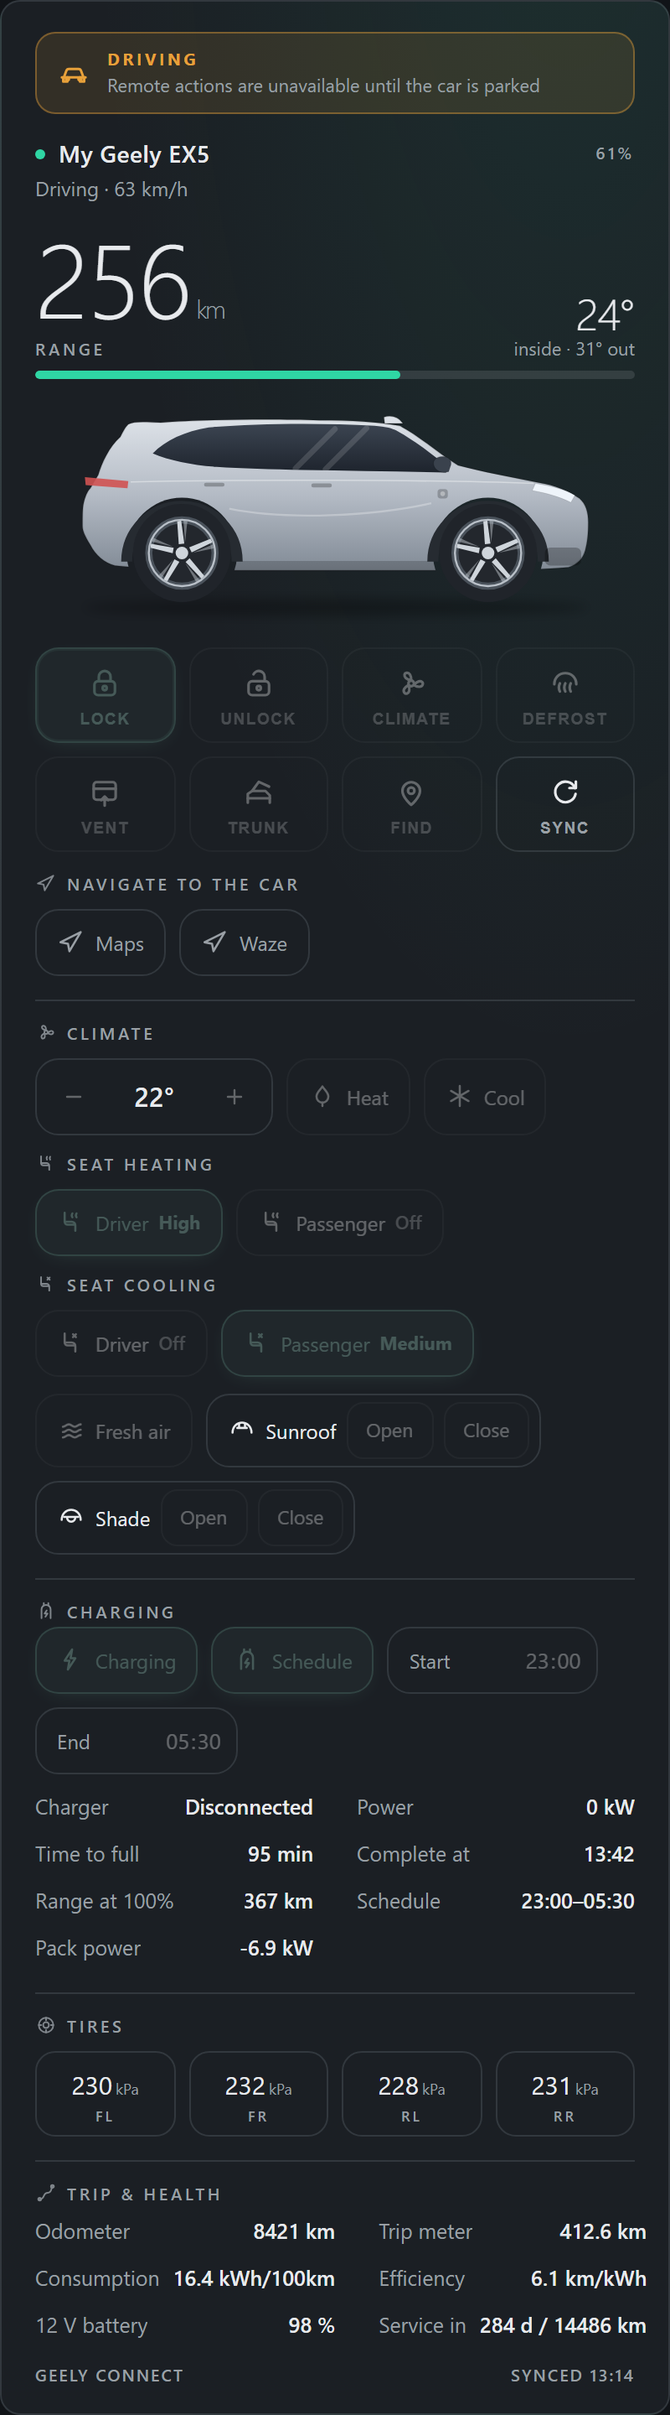
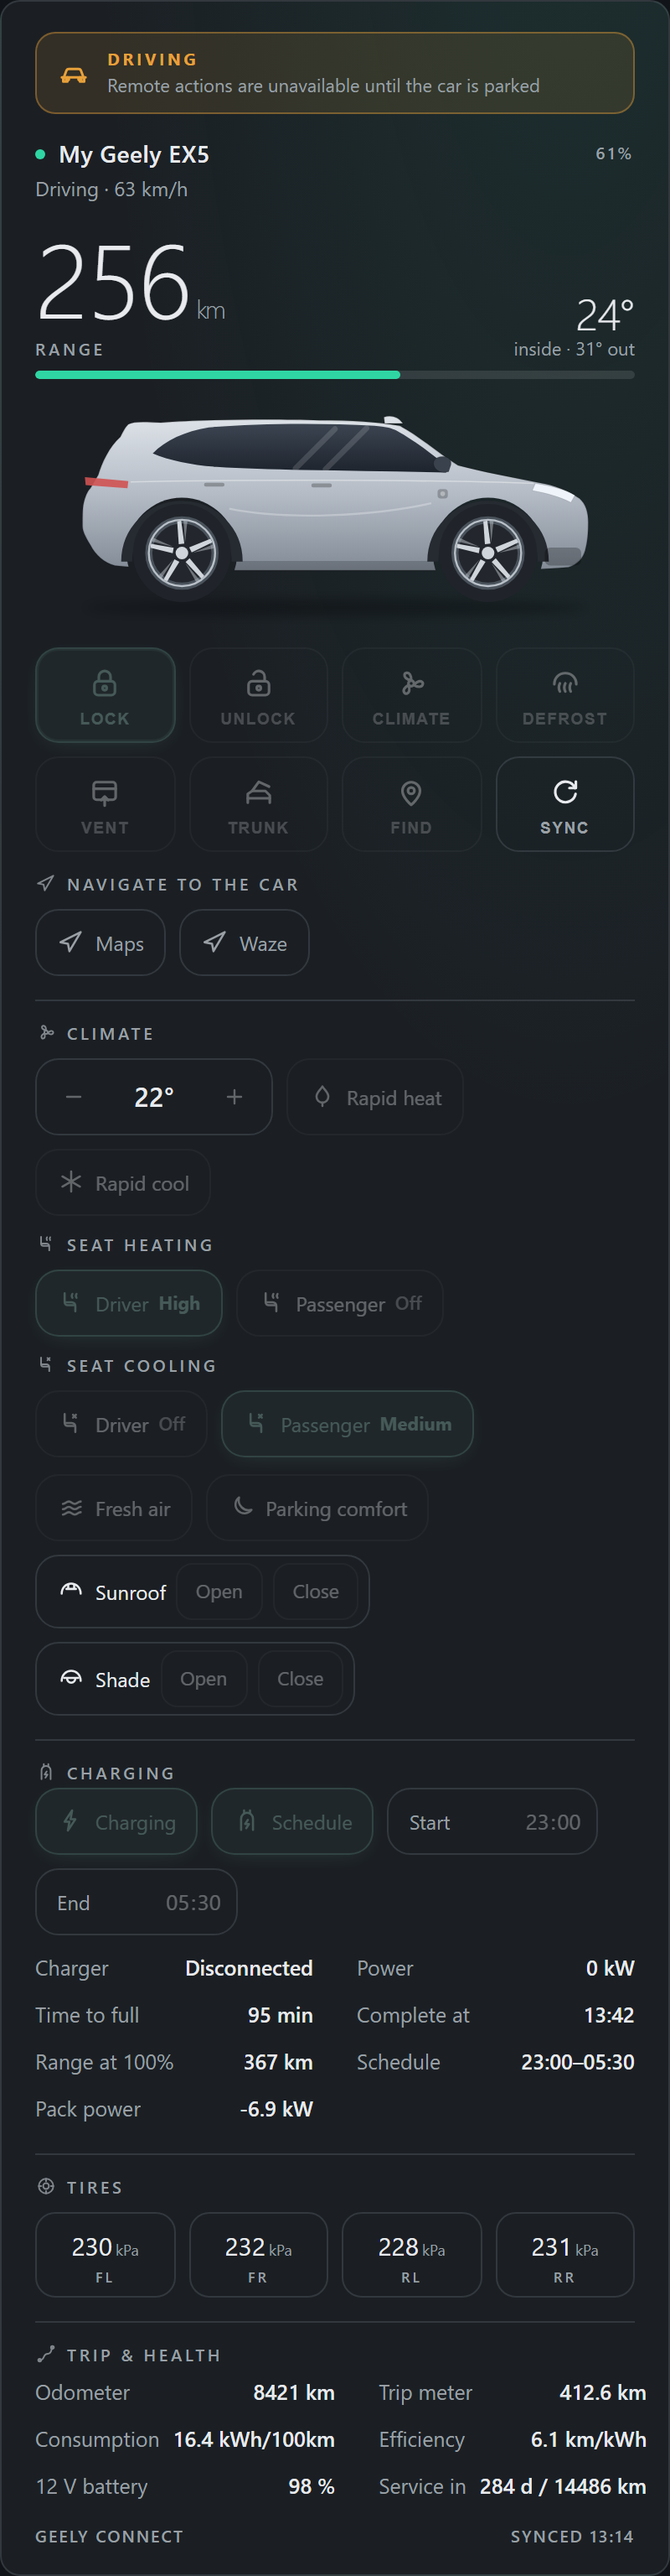
Say "rapid" on the preset buttons, put Parking Comfort on the card
#29: the Heat and Cool buttons fire the car's own Rapid Warming and Rapid
Cooling presets, which drive the setpoint to its limit and run both front
seats. Labelled Heat and Cool they read as a plain "start heating", and a
reporter said exactly that. They now say Rapid heat / Rapid cool, and the
tooltip describes what the preset does to the car.

#30: Parking Comfort was reachable only as a switch entity. It is now a
button in the climate panel's air row, beside Fresh air, since it is a
cabin-air feature rather than a one-shot action. It carries no "on" state
on purpose - the car does not report the feature's state (#13), so the
switch reads unknown and a lit button would be inventing one. The tooltip
says so.

Also fixes a flake that predates this work: seven tests called
_adaptive_interval on a parked car without pinning the module clock, and a
parked car backs off to the cap between 00:00 and 05:59 local. Those tests
failed for six hours every day, on CI included. They now use the _at_hour
helper the file already had, and a new test walks all twenty-four hours to
pin what must hold in each one - so the next such test fails immediately
rather than at dawn.

710 tests, 100% coverage, hassfest clean, HACS checks pass.

diff --git a/custom_components/geely_connect/geely-card.js b/custom_components/geely_connect/geely-card.js
@@ -34,7 +34,7 @@
     "scheduled_charging", "charger_connection", "tire_front_right",
     "tire_front_left", "tire_rear_right", "door_rear_right", "charging_power",
     "seat_heat_passenger", "seat_vent_passenger", "seat_heat_driver",
-    "seat_vent_driver", "sunshade", "g_clean",
+    "seat_vent_driver", "sunshade", "g_clean", "parking_comfort",
     "tire_rear_left", "door_rear_left", "combined_range", "charge_complete",
     "charge_voltage", "electric_range", "charge_current", "door_passenger",
     "charger_plug", "total_mileage", "refresh_data", "unlock_trunk",
@@ -125,6 +125,23 @@
   /* Unchanged for anyone who has not asked: two links, not four. */
   const DEFAULT_NAV = ["maps", "waze"];
 
+  /* The car does not report this feature's state - the field that looks like its
+   * flag reads 1 with the feature off (#13) - so the switch reads unknown and the
+   * button cannot honestly light up. Say that on the control. */
+  const PCOMFORT_HINT = "Parking Comfort: keeps the cabin comfortable while the "
+    + "car is parked. Your car does not report whether it is on, so this button "
+    + "toggles it without showing a state.";
+
+  /* These two buttons fire the car's own Rapid Warming / Rapid Cooling presets,
+   * not a plain "start heating". Labelled Heat and Cool they read as the latter -
+   * an owner said so: "I initially thought heat just turned on heating, not rapid
+   * heating" (#29). So the label says rapid and the tooltip says what that
+   * actually does to the car. */
+  const RAPID_HEAT_HINT = "Rapid warming: the car's own preset - drives the "
+    + "setpoint to its maximum and heats both front seats";
+  const RAPID_COOL_HINT = "Rapid cooling: the car's own preset - drives the "
+    + "setpoint to its minimum, ventilates both front seats and cracks the windows";
+
   const DEFAULT_COOLDOWN_S = 3;
   /* How long the temperature stepper waits for the tapping to stop. */
   const TEMP_SETTLE_MS = 1100;
@@ -134,6 +151,7 @@
     // The propulsion split: _carState() reads these for every card, so a
     // card that did not watch them would freeze a hybrid's fuel bar and
     // headline exactly the way the door count froze once.
+    "switch.parking_comfort",
     "sensor.fuel_level", "sensor.fuel_level_pct", "sensor.fuel_range",
     "sensor.combined_range",
   ];
@@ -378,6 +396,10 @@
 
   const ICONS = {
     nav: `<path d="M20 4 10.5 20l-1.2-6.3L3 12.5z"/>`,
+    // Parking Comfort keeps the cabin liveable while the car sits, which is
+    // what mdi:sleep says on the switch itself - so a crescent, not the
+    // climate fan it was borrowing.
+    sleep: `<path d="M20 14.5A8.5 8.5 0 0 1 9.5 4a7.5 7.5 0 1 0 10.5 10.5z"/>`,
     driving: `<path d="M3.5 14.5h17M5 14.5l1.7-4.6A2 2 0 0 1 8.6 8.5h6.8a2 2 0 0 1 1.9 1.4l1.7 4.6"/>
               <path d="M4.5 14.5v3h3v-3M16.5 14.5v3h3v-3"/>
               <circle cx="7.5" cy="15.6" r="1.1"/><circle cx="16.5" cy="15.6" r="1.1"/>`,
@@ -1076,6 +1098,7 @@
         case "shade_open": this._call("cover", "open_cover", "sunshade"); break;
         case "shade_close": this._call("cover", "close_cover", "sunshade"); break;
         case "gclean": this._call("switch", "toggle", "g_clean"); break;
+        case "pcomfort": this._call("switch", "toggle", "parking_comfort"); break;
         case "charging_sw": this._call("switch", "toggle", "charging"); break;
         case "sched_sw": this._call("switch", "toggle", "scheduled_charging"); break;
         case "defrost": this._call("switch", "toggle", "defrost"); break;
@@ -1231,12 +1254,22 @@
           </div>`;
       };
       const gclean = this._st("switch.g_clean");
+      const pcomfort = this._st("switch.parking_comfort");
       const heatRow = seat("seat_heat_driver", "Driver", "seatheat", "Seat heat") +
         seat("seat_heat_passenger", "Passenger", "seatheat", "Seat heat");
       const ventRow = seat("seat_vent_driver", "Driver", "seatvent", "Seat cooling") +
         seat("seat_vent_passenger", "Passenger", "seatvent", "Seat cooling");
+      /* Parking Comfort keeps the cabin liveable while the car sits, so it belongs
+       * beside the cabin-air controls rather than among the one-shot actions.
+       *
+       * It carries no "on" class on purpose. This car does not report the
+       * feature's state: the field that looks like its flag reads 1 on a car with
+       * it switched off (#13), so the switch itself reports unknown. A control
+       * that lights up would be inventing a state - the tooltip says so instead. */
       const airRow = (gclean ? `<button class="cbtn ${gclean.state === "on" ? "on" : ""}"
             data-act="gclean" title="Fresh air (G-Clean)">${icon("fresh")}<span>Fresh air</span></button>` : "") +
+        (pcomfort ? `<button class="cbtn ${pcomfort.state === "on" ? "on" : ""}"
+            data-act="pcomfort" title="${esc(PCOMFORT_HINT)}">${icon("sleep")}<span>Parking comfort</span></button>` : "") +
         cover("sunroof", "sunroof_open", "sunroof_close", "Sunroof", "roof") +
         cover("sunshade", "shade_open", "shade_close", "Shade", "shade");
       return `
@@ -1249,9 +1282,9 @@
             <button class="cstep" data-act="tempup" title="Warmer">${icon("plus")}</button>
           </div>
           <button class="cbtn ${preset === "Rapid Warming" ? "on" : ""}" data-act="rapidheat"
-            title="Rapid warming">${icon("heat")}<span>Heat</span></button>
+            title="${esc(RAPID_HEAT_HINT)}">${icon("heat")}<span>Rapid heat</span></button>
           <button class="cbtn ${preset === "Rapid Cooling" ? "on" : ""}" data-act="rapidcool"
-            title="Rapid cooling">${icon("cool")}<span>Cool</span></button>
+            title="${esc(RAPID_COOL_HINT)}">${icon("cool")}<span>Rapid cool</span></button>
         </div>
         ${heatRow ? `<p class="micro csub">${icon("seatheat")} Seat heating</p>
         <div class="crow wrap">${heatRow}</div>` : ""}
@@ -1494,8 +1527,8 @@
           <div class="actions">
             ${this._actBtn("lock", "Lock", "lock", { on: s.locked && s.locked.state === "locked" })}
             ${this._actBtn("unlock", "Unlock", "unlock")}
-            ${this._actBtn("rapidheat", "Heat", "heat", { on: this._preset() === "Rapid Warming" })}
-            ${this._actBtn("rapidcool", "Cool", "cool", { on: this._preset() === "Rapid Cooling" })}
+            ${this._actBtn("rapidheat", "Rapid heat", "heat", { title: RAPID_HEAT_HINT, on: this._preset() === "Rapid Warming" })}
+            ${this._actBtn("rapidcool", "Rapid cool", "cool", { title: RAPID_COOL_HINT, on: this._preset() === "Rapid Cooling" })}
             ${this._actBtn("defrost", "Defrost", "defrost", { on: defrost && defrost.state === "on" })}
             ${this._actBtn("trunk", this._bootWord(), "trunk", { title: this._bootTitle() })}
           </div>
@@ -1842,8 +1875,8 @@
               ${locked
                 ? this._actBtn("unlock", "Unlock", "unlock")
                 : this._actBtn("lock", "Lock", "lock")}
-              ${this._actBtn("rapidheat", "Heat", "heat", { on: this._preset() === "Rapid Warming" })}
-              ${this._actBtn("rapidcool", "Cool", "cool", { on: this._preset() === "Rapid Cooling" })}
+              ${this._actBtn("rapidheat", "Rapid heat", "heat", { title: RAPID_HEAT_HINT, on: this._preset() === "Rapid Warming" })}
+              ${this._actBtn("rapidcool", "Rapid cool", "cool", { title: RAPID_COOL_HINT, on: this._preset() === "Rapid Cooling" })}
               ${this._actBtn("trunk", this._bootWord(), "trunk", { title: this._bootTitle() })}
               ${this._actBtn("find", "Find", "find")}
             </div>
@@ -1935,8 +1968,8 @@
             ${locked
               ? this._actBtn("unlock", "Unlock", "unlock")
               : this._actBtn("lock", "Lock", "lock")}
-            ${this._actBtn("rapidheat", "Heat", "heat", { on: preset === "Rapid Warming" })}
-            ${this._actBtn("rapidcool", "Cool", "cool", { on: preset === "Rapid Cooling" })}
+            ${this._actBtn("rapidheat", "Rapid heat", "heat", { title: RAPID_HEAT_HINT, on: preset === "Rapid Warming" })}
+            ${this._actBtn("rapidcool", "Rapid cool", "cool", { title: RAPID_COOL_HINT, on: preset === "Rapid Cooling" })}
           </div>
         </div>`;
       this._wire();

diff --git a/tests/test_polling_logic.py b/tests/test_polling_logic.py
@@ -88,10 +88,12 @@ def test_the_fast_interval_holds_through_a_red_light():
     interval must still be the profile's fast value rather than base."""
     m = _coordinator_module()
     const = load("const")
-    prof = const.POLL_PROFILES["normal"]
-    stopped = _status(speed="0", engine="engine_running")
-    assert m._adaptive_interval(stopped, 0, prof).total_seconds() == prof["fast"]
-    assert m._adaptive_interval(stopped, 3, prof).total_seconds() == prof["fast"]
+    # Pinned: quiet hours are wall-clock, so this would fail 00:00-05:59.
+    with _at_hour(m, 12):
+        prof = const.POLL_PROFILES["normal"]
+        stopped = _status(speed="0", engine="engine_running")
+        assert m._adaptive_interval(stopped, 0, prof).total_seconds() == prof["fast"]
+        assert m._adaptive_interval(stopped, 3, prof).total_seconds() == prof["fast"]
 
 
 def test_a_stuck_running_flag_eventually_backs_off_anyway():
@@ -100,12 +102,14 @@ def test_a_stuck_running_flag_eventually_backs_off_anyway():
     for ever either."""
     m = _coordinator_module()
     const = load("const")
-    prof = const.POLL_PROFILES["normal"]
-    stuck = _status(speed="0", engine="running")
-    fast = m._adaptive_interval(stuck, m._STUCK_POLLS - 1, prof).total_seconds()
-    slow = m._adaptive_interval(stuck, m._STUCK_POLLS, prof).total_seconds()
-    assert fast == prof["fast"]
-    assert slow > prof["fast"]
+    # Pinned: quiet hours are wall-clock, so this would fail 00:00-05:59.
+    with _at_hour(m, 12):
+        prof = const.POLL_PROFILES["normal"]
+        stuck = _status(speed="0", engine="running")
+        fast = m._adaptive_interval(stuck, m._STUCK_POLLS - 1, prof).total_seconds()
+        slow = m._adaptive_interval(stuck, m._STUCK_POLLS, prof).total_seconds()
+        assert fast == prof["fast"]
+        assert slow > prof["fast"]
 
 
 def test_movement_alone_changes_the_signature():
@@ -201,23 +205,54 @@ def test_quiet_hours_park_the_interval_at_the_cap():
         assert m._adaptive_interval(_status(charger="3"), 0, p).total_seconds() == p["fast"]
 
 
+def test_the_ladder_is_sane_at_every_hour_of_the_day():
+    """Seven tests in this file had to pin the clock because a parked car is
+    handled differently between 00:00 and 05:59, and each one that forgot failed
+    for six hours a day - on CI included. Rather than leave that to memory, this
+    walks all twenty-four hours and pins what must hold in every one of them:
+    the interval is always inside the profile, a moving car is never slowed, and
+    the only thing the hour is allowed to change is how fast a parked car
+    reaches a cap it was going to reach anyway."""
+    m = _coordinator_module()
+    const = load("const")
+    p = const.POLL_PROFILES["normal"]
+    parked = _status(speed="0", charger="0")
+    quiet = set()
+    for hour in range(24):
+        with _at_hour(m, hour):
+            for streak in (0, 3, 9, 99):
+                secs = m._adaptive_interval(parked, streak, p).total_seconds()
+                assert p["fast"] <= secs <= p["cap"], (hour, streak, secs)
+            # Whatever the hour, a car that is moving or charging polls fast.
+            for busy in (_status(speed="60"), _status(charger="3")):
+                assert m._adaptive_interval(busy, 0, p).total_seconds() == p["fast"], hour
+            if m._adaptive_interval(parked, 0, p).total_seconds() == p["cap"]:
+                quiet.add(hour)
+    assert quiet == set(m._QUIET_HOURS), (
+        f"the quiet window moved: {sorted(quiet)} vs {list(m._QUIET_HOURS)}")
+
+
 def test_back_off_stops_growing_so_the_interval_cannot_run_away():
     m = _coordinator_module()
     const = load("const")
-    p = const.POLL_PROFILES["eco"]
-    parked = _status(speed="0")
-    assert (m._adaptive_interval(parked, 100, p)
-            == m._adaptive_interval(parked, 1000, p))
+    # Pinned: quiet hours are wall-clock, so this would fail 00:00-05:59.
+    with _at_hour(m, 12):
+        p = const.POLL_PROFILES["eco"]
+        parked = _status(speed="0")
+        assert (m._adaptive_interval(parked, 100, p)
+                == m._adaptive_interval(parked, 1000, p))
 
 
 def test_eco_is_always_gentler_than_live():
     m = _coordinator_module()
     const = load("const")
-    parked = _status(speed="0")
-    for streak in (0, 1, 3, 8):
-        eco = m._adaptive_interval(parked, streak, const.POLL_PROFILES["eco"])
-        live = m._adaptive_interval(parked, streak, const.POLL_PROFILES["live"])
-        assert eco > live, streak
+    # Pinned: quiet hours are wall-clock, so this would fail 00:00-05:59.
+    with _at_hour(m, 12):
+        parked = _status(speed="0")
+        for streak in (0, 1, 3, 8):
+            eco = m._adaptive_interval(parked, streak, const.POLL_PROFILES["eco"])
+            live = m._adaptive_interval(parked, streak, const.POLL_PROFILES["live"])
+            assert eco > live, streak
 
 
 def test_device_name_ends_with_the_last_four_vin_characters():
@@ -237,12 +272,14 @@ def test_a_frozen_backend_during_a_drive_never_reaches_the_parked_cap():
     exact symptom the issue reported. A claimed trip now holds at base."""
     m = _coordinator_module()
     const = load("const")
-    prof = const.POLL_PROFILES["normal"]
-    driving = _status(speed="0", engine="engine_running")
-    for streak in (m._STUCK_POLLS, m._STUCK_POLLS + 5, 99):
-        secs = m._adaptive_interval(driving, streak, prof).total_seconds()
-        assert secs == prof["base"], (streak, secs)
-        assert secs < prof["cap"], "a moving car must never sit at the parked cap"
+    # Pinned: quiet hours are wall-clock, so this would fail 00:00-05:59.
+    with _at_hour(m, 12):
+        prof = const.POLL_PROFILES["normal"]
+        driving = _status(speed="0", engine="engine_running")
+        for streak in (m._STUCK_POLLS, m._STUCK_POLLS + 5, 99):
+            secs = m._adaptive_interval(driving, streak, prof).total_seconds()
+            assert secs == prof["base"], (streak, secs)
+            assert secs < prof["cap"], "a moving car must never sit at the parked cap"
 
 
 def test_a_parked_car_still_walks_all_the_way_to_the_cap():
@@ -250,10 +287,12 @@ def test_a_parked_car_still_walks_all_the_way_to_the_cap():
     untouched by the fix above."""
     m = _coordinator_module()
     const = load("const")
-    prof = const.POLL_PROFILES["normal"]
-    parked = _status(speed="0", engine="engine_off")
-    assert m._adaptive_interval(parked, 0, prof).total_seconds() == prof["base"]
-    assert m._adaptive_interval(parked, 9, prof).total_seconds() == prof["cap"]
+    # Pinned: quiet hours are wall-clock, so this would fail 00:00-05:59.
+    with _at_hour(m, 12):
+        prof = const.POLL_PROFILES["normal"]
+        parked = _status(speed="0", engine="engine_off")
+        assert m._adaptive_interval(parked, 0, prof).total_seconds() == prof["base"]
+        assert m._adaptive_interval(parked, 9, prof).total_seconds() == prof["cap"]
 
 
 # --------------------------------------------- what the signature must see ---
@@ -293,17 +332,19 @@ def test_a_parked_car_with_wandering_pack_current_still_reaches_the_cap():
     """The end-to-end version of the above, walked through the interval."""
     m = _coordinator_module()
     const = load("const")
-    prof = const.POLL_PROFILES["normal"]
-    sig, idle = None, 0
-    for amps in ("1.6", "1.7", "412.2", "2.0", "1.9", "1.6"):
-        payload = _status(charge="50", speed="0", engine="engine_off")
-        payload["vehicleStatus"]["additionalVehicleStatus"][
-            "electricVehicleStatus"]["dcChargeIAct"] = amps
-        new = m._poll_signature(payload)
-        idle = idle + 1 if new == sig else 0
-        sig = new
-    assert idle >= 4, f"the streak never grew on a parked car (idle={idle})"
-    assert m._adaptive_interval(payload, idle, prof).total_seconds() == prof["cap"]
+    # Pinned: quiet hours are wall-clock, so this would fail 00:00-05:59.
+    with _at_hour(m, 12):
+        prof = const.POLL_PROFILES["normal"]
+        sig, idle = None, 0
+        for amps in ("1.6", "1.7", "412.2", "2.0", "1.9", "1.6"):
+            payload = _status(charge="50", speed="0", engine="engine_off")
+            payload["vehicleStatus"]["additionalVehicleStatus"][
+                "electricVehicleStatus"]["dcChargeIAct"] = amps
+            new = m._poll_signature(payload)
+            idle = idle + 1 if new == sig else 0
+            sig = new
+        assert idle >= 4, f"the streak never grew on a parked car (idle={idle})"
+        assert m._adaptive_interval(payload, idle, prof).total_seconds() == prof["cap"]
 
 
 def test_driving_comes_from_the_composite_not_the_raw_speed_alone():

diff --git a/tests/test_cards_in_a_browser.py b/tests/test_cards_in_a_browser.py
@@ -58,6 +58,9 @@ window.mkHass = (opts) => {
   // only when the climate entity exists, which is what the seat tests need.
   put(`climate.${P}_climate`, "off", { temperature: 22, min_temp: 15.5,
       max_temp: 28.5, target_temp_step: 0.5, preset_mode: "none" });
+  if (opts.parkingComfort !== undefined) {
+    put(`switch.${P}_parking_comfort`, opts.parkingComfort);
+  }
   put(`sensor.${P}_speed`, opts.speed === undefined ? "0" : opts.speed,
       { unit_of_measurement: "km/h" });
   // A car with a tank. The integration only creates these when the propulsion
@@ -1216,3 +1219,60 @@ def test_the_active_label_darkens_on_a_light_theme_and_stays_bright_on_a_dark_on
     # And it has to stay recognisably the accent, not collapse to plain text.
     assert on_dark[1] > on_dark[0] and on_dark[1] > on_dark[2], on_dark
     assert on_light[1] > on_light[0] and on_light[1] > on_light[2], on_light
+
+
+# ------------------------------------ #29, #30: say what the buttons really do
+
+def test_the_rapid_buttons_say_rapid():
+    """They fire the car's own Rapid Warming / Rapid Cooling presets, not a plain
+    "start heating" - and labelled Heat and Cool they read as the latter. An owner
+    said exactly that: "I initially thought heat just turned on heating, not rapid
+    heating" (#29)."""
+    probe = """[...el.shadowRoot.querySelectorAll('[data-act^="rapid"]')]
+                 .map((b) => [b.dataset.act, b.textContent.replace(/\s+/g, " ").trim(),
+                              b.getAttribute("title")])"""
+    for tag in CARD_TAGS:
+        got = _mount(tag, probe)
+        assert got, tag
+        by = {a: (label, title) for a, label, title in got}
+        assert by["rapidheat"][0] == "Rapid heat", (tag, by)
+        assert by["rapidcool"][0] == "Rapid cool", (tag, by)
+        # And the tooltip says what the preset actually does to the car.
+        assert "maximum" in by["rapidheat"][1] and "seats" in by["rapidheat"][1], by
+        assert "minimum" in by["rapidcool"][1] and "windows" in by["rapidcool"][1], by
+
+
+def test_parking_comfort_appears_on_the_big_cards_when_the_car_has_it():
+    """Asked for on #30. It belongs beside the cabin-air controls rather than the
+    one-shot actions, because it keeps the cabin liveable while the car sits."""
+    probe = """(() => {
+        const b = el.shadowRoot.querySelector('[data-act="pcomfort"]');
+        return b ? { text: b.textContent.replace(/\s+/g, " ").trim(),
+                     title: b.getAttribute("title"),
+                     lit: b.classList.contains("on") } : null;
+    })()"""
+    for tag in ("geely-card", "geely-card-top"):
+        got = _mount(tag, probe, parkingComfort="unknown")
+        assert got is not None, f"{tag} has no parking comfort button"
+        assert "Parking comfort" in got["text"], (tag, got)
+        # The car does not report the state, so the control must not invent one.
+        assert got["lit"] is False, (tag, got)
+        assert "does not report" in got["title"], (tag, got["title"])
+
+
+def test_no_parking_comfort_button_on_a_car_without_the_feature():
+    probe = 'el.shadowRoot.querySelectorAll(\'[data-act="pcomfort"]\').length'
+    assert _mount("geely-card", probe) == 0
+
+
+def test_pressing_parking_comfort_toggles_the_switch():
+    script = """() => {
+        const el = document.createElement("geely-card");
+        document.body.appendChild(el);
+        el.setConfig({});
+        const hass = window.mkHass({ parkingComfort: "unknown" });
+        el.hass = hass;
+        el._onAction("pcomfort");
+        return hass.serviceCalls.map((c) => [c[0], c[1], c[2].entity_id]);
+    }"""
+    assert _evaluate(script) == [["switch", "toggle", "switch.car_parking_comfort"]]

diff --git a/README.md b/README.md
@@ -291,12 +291,17 @@ The full and top-view cards carry a complete **Climate** section:
 - **Temperature stepper** - bound to the climate entity's own min / max / step
   (15.5-28.5 °C in 0.5° steps on the EX5), so it can never send a value the
   car refuses.
-- **Heat / Cool** - the car's real *Rapid Warming* / *Rapid Cooling* presets,
-  which also run the seats and ventilation, exactly as the official app does.
+- **Rapid heat / Rapid cool** - the car's own *Rapid Warming* / *Rapid Cooling*
+  presets, which drive the setpoint to its maximum or minimum and run the seats
+  too, exactly as the official app does. They are labelled *rapid* because they
+  are not a plain "start heating", and an owner reasonably read the old labels
+  that way.
 - **Seat heating / Seat cooling** per front seat - each tap steps
   Off → Low → Medium → High → Off.
-- **Fresh air** (G-Clean), and **Open / Close** for the sunroof and the
-  sunshade.
+- **Fresh air** (G-Clean), **Parking comfort**, and **Open / Close** for the
+  sunroof and the sunshade. Parking comfort never lights up, deliberately: the car
+  does not report whether it is on - the field that looks like its flag reads 1
+  with the feature off - so the button toggles it without claiming a state.
 - Every block hides itself on a trim that lacks the entity - and there is no
   fan-speed control because the car's cloud API simply has none.
 
